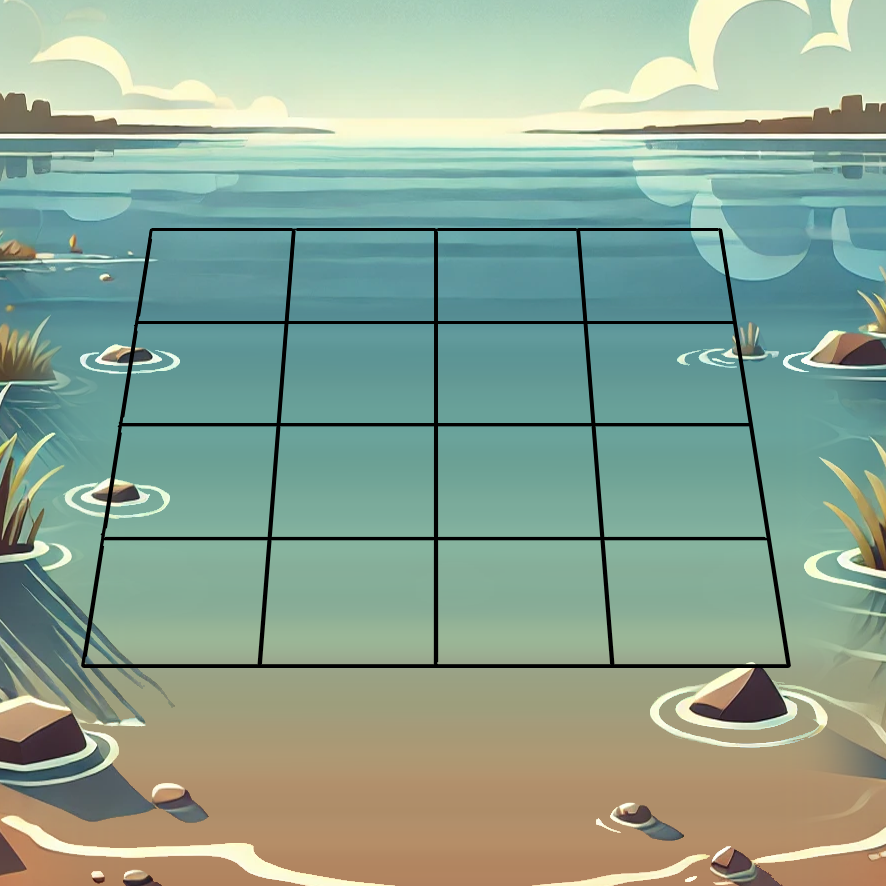
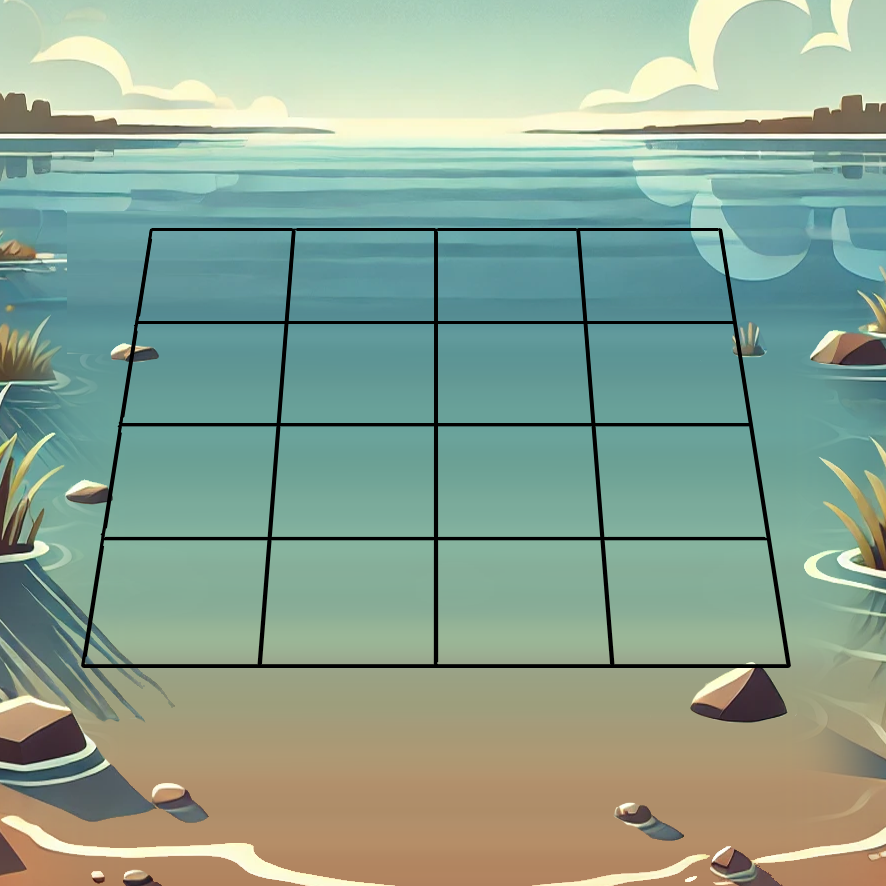
adds animated ripples to the fishing scene

diff --git a/src/renderer/toys/Fishing/FishingWidget.vue b/src/renderer/toys/Fishing/FishingWidget.vue
@@ -61,6 +61,9 @@
 						top: bobble.screenY + 'px',
 					}"
 				>
+					<div class="ripple">
+						<div class="inner"></div>
+					</div>
 					<div class="image">
 						<div 
 							class="line"
@@ -74,6 +77,10 @@
 					
 				</div>
 
+				<div class="ripple tl"><div class="inner"></div></div>
+				<div class="ripple tr"><div class="inner"></div></div>
+				<div class="ripple l"><div class="inner"></div></div>
+				<div class="ripple br"><div class="inner"></div></div>
 			</div>
 		</div>
 	</AutoSizer>
@@ -198,21 +205,11 @@ watch(gameState, (newVal) => {
 
 		// a fish
 		.fish {
-
 			pointer-events: initial;
 			cursor: pointer;
 
-			// fill the whole box
-			/* position: absolute; */
-
 			// entire fish slightly transparent
 			opacity: 0.5;
-			
-			/* transform: translate(-10px, 0px); */
-			
-			/* border: 10px solid red;
-			width: 1px;
-			height: 1px; */
 
 			// a number of circles that trail off and get smaller to show fish path
 			.fishShape {
@@ -255,42 +252,49 @@ watch(gameState, (newVal) => {
 			height: 1px;
 			transform: translate(0px, -10px);
 			
+			// the ripple
+			.ripple {
+				left: -25px;
+				top: -12px;
+				transform: scale(0.7, 0.3);
+			}
 			// the bobble image, centered
 			.image {
+
 				width: 15px;
 				height: 20px;
-				/* transform: translate(-50%, -65%); */
-				animation: bobbleFloat 5s infinite ease-in-out;
 
+				animation: bobbleFloat 5s infinite ease-in-out;
 				background: url('/assets/fishing/bobble.png') no-repeat center center;
 				background-size: 100% 100%;
-				/* opacity: 0.5; */
 
 				.line {
 
+					// fixed rectangle based on top of the bobble image
 					position: absolute;
 					bottom: 15px;
 					left: 5px;
-
 					width: 70px;
 					height: 250px;
 
+					// background image
 					background: url('/assets/fishing/line.png') no-repeat center center;
 					background-size: 100% 100%;
 
+					// slight height variation
 					&.altLine {
 						
 						height: 175px;
 					}
 
+					// flipped line
 					&.flip {
 						transform: scaleX(-1);
 						left: auto;
 						right: 5px;
 					}
 
-					
-				}
+				}// .line
 
 			}// .image
 			
@@ -322,7 +326,76 @@ watch(gameState, (newVal) => {
 
 		}//. bobble
 
+
+		// ripple box
+		.ripple {
+
+			// fixed position
+			position: absolute;
+			top: 100px;
+			left: 100px;
+			width: 50px;
+			height: 50px;
+
+			// default scale
+			transform: scaleY(0.4);
+
+			// specific named ripples for the scene
+			&.tl {
+				top: 67px;
+				left: 4px;
+			}
+			&.tr {
+				top: 65px;
+				left: 193px;
+			}
+			&.l {
+				top: 110px;
+				left: -10px;
+			}
+			&.br {
+				top: 173px;
+				left: 192px;
+				transform: scale(1.5, 0.6);
+			}
+
+			// fade out
+			mask-image:
+				radial-gradient(circle, rgb(0, 0, 0, 1) 50%,
+					rgba(0, 0, 0, 0) 70%,
+					rgba(0, 0, 0, 0) 100%);
+
+			// animated ripple image
+			.inner {
+				width: 50px;
+				height: 50px;
+
+				background: url('/assets/fishing/ripples.png') no-repeat center center;
+				background-size: 100% 100%;
+
+				// bg image for ripple
+				background-position: center;
+				transform-origin: center center;
+				animation: spinBg 1s infinite ease-in-out alternate,
+						zoomBg 1s infinite ease-in-out alternate;
+			}// .inner
+
+		}// .ripple
+
 	}// .fishingWidget
+
+
+	@keyframes spinBg {
+		0%   { transform: rotate(-30deg) scale(1); }
+		50%  { transform: rotate(0deg) scale(1); }
+		100% { transform: rotate(30deg) scale(1); }
+	}
+
+	@keyframes zoomBg {
+		0%   { transform: scale(1.05) rotate(-30deg); }
+		50%  { transform: scale(0.97) rotate(0deg); }
+		100% { transform: scale(1.05) rotate(30deg); }
+	}
 
 	@keyframes bobbleFloat {
 		0%   { transform: translate(-50%, 0); }
